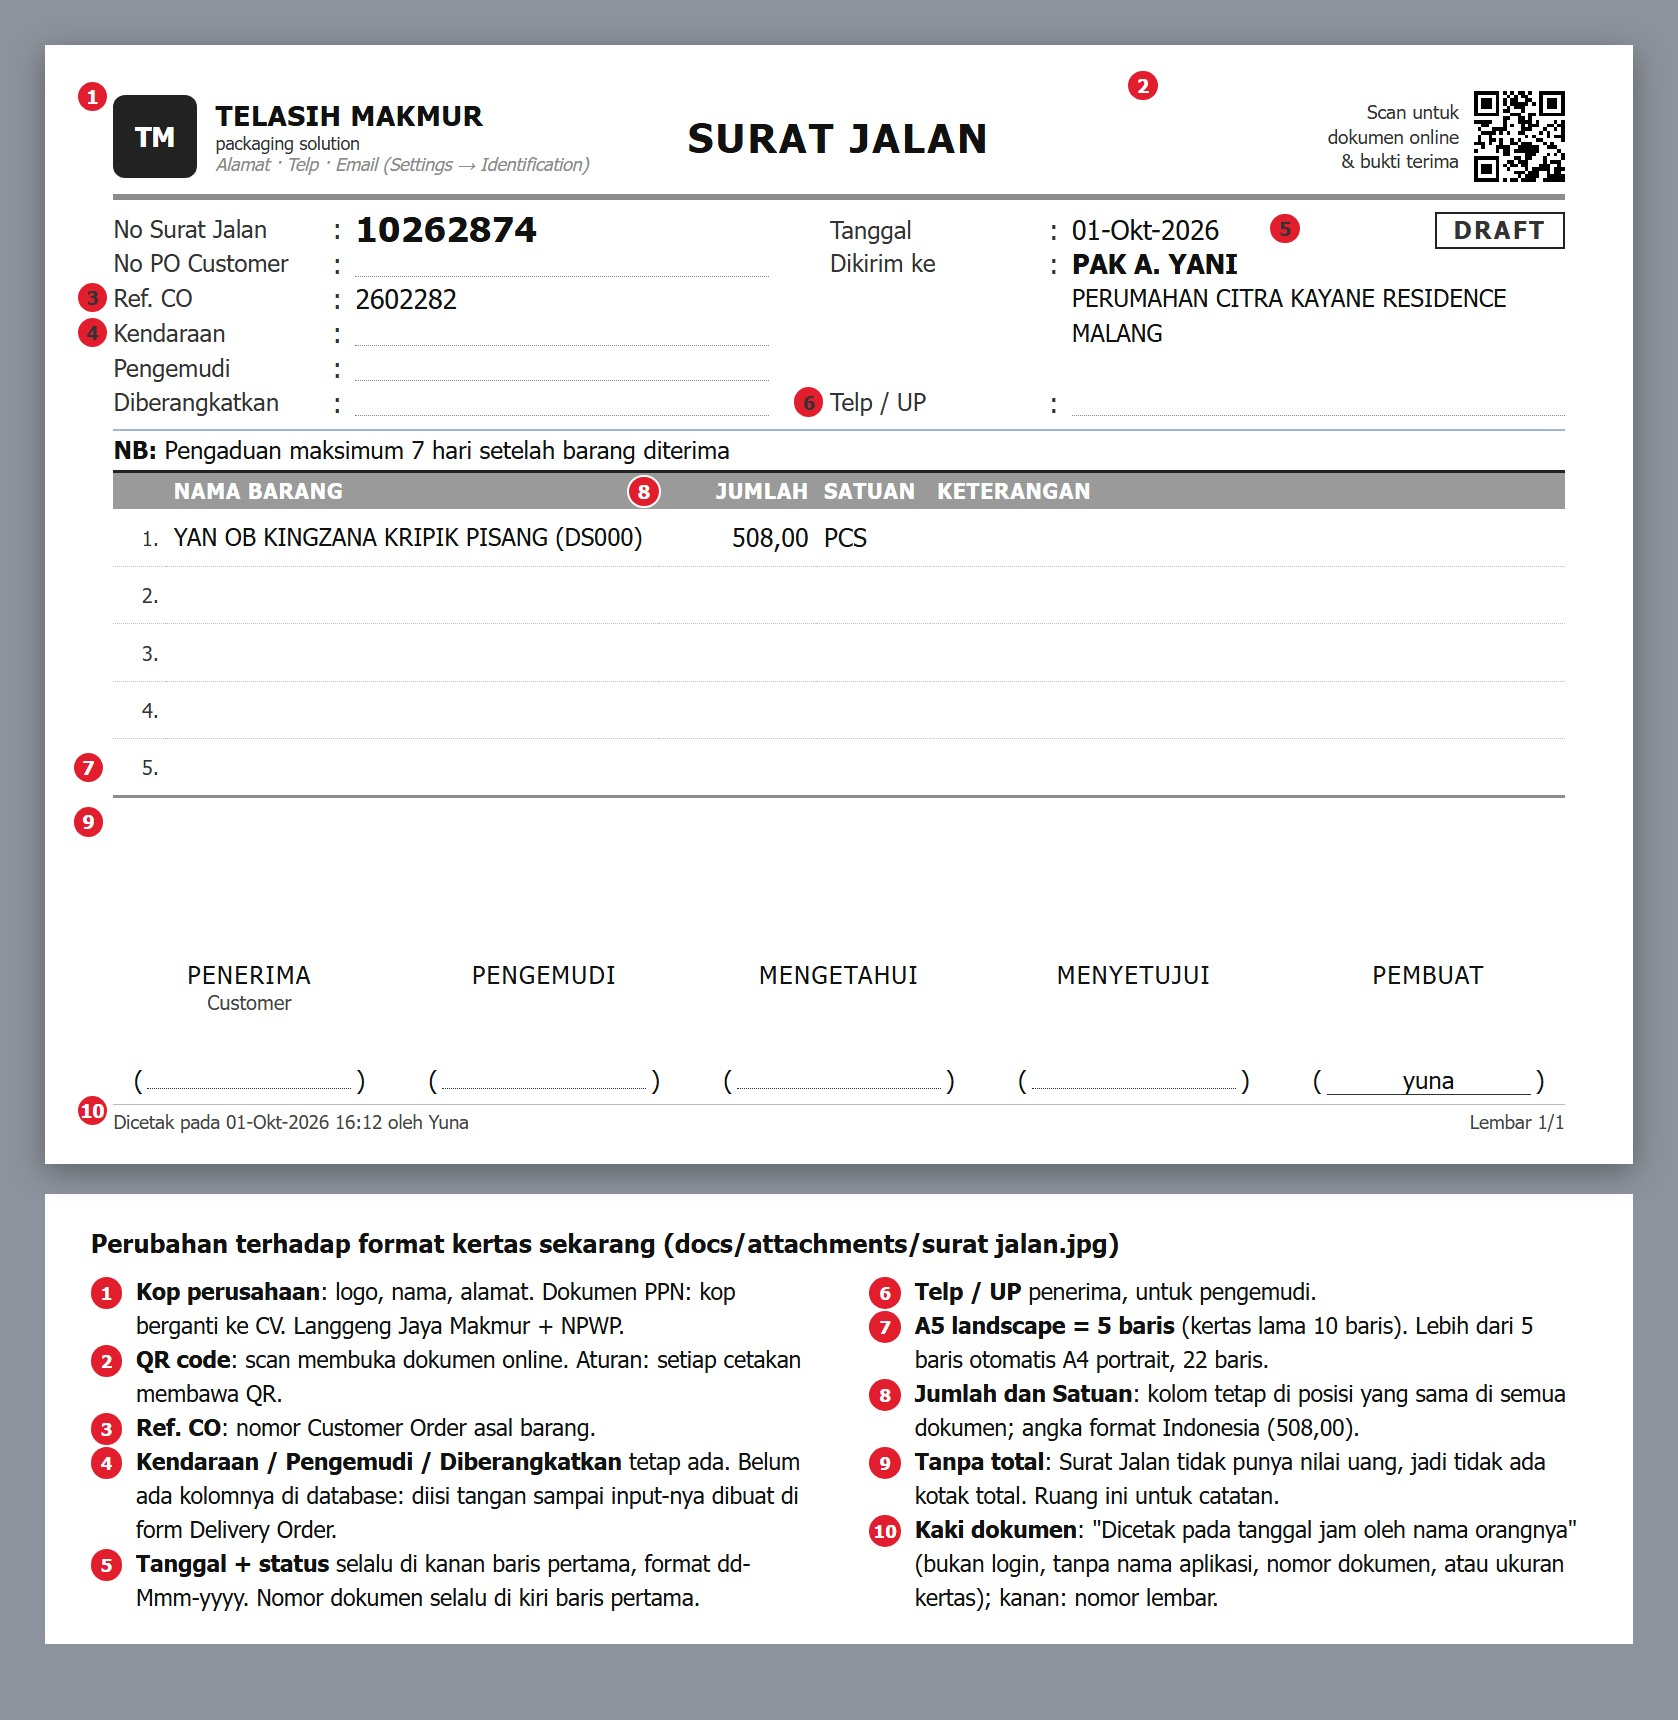
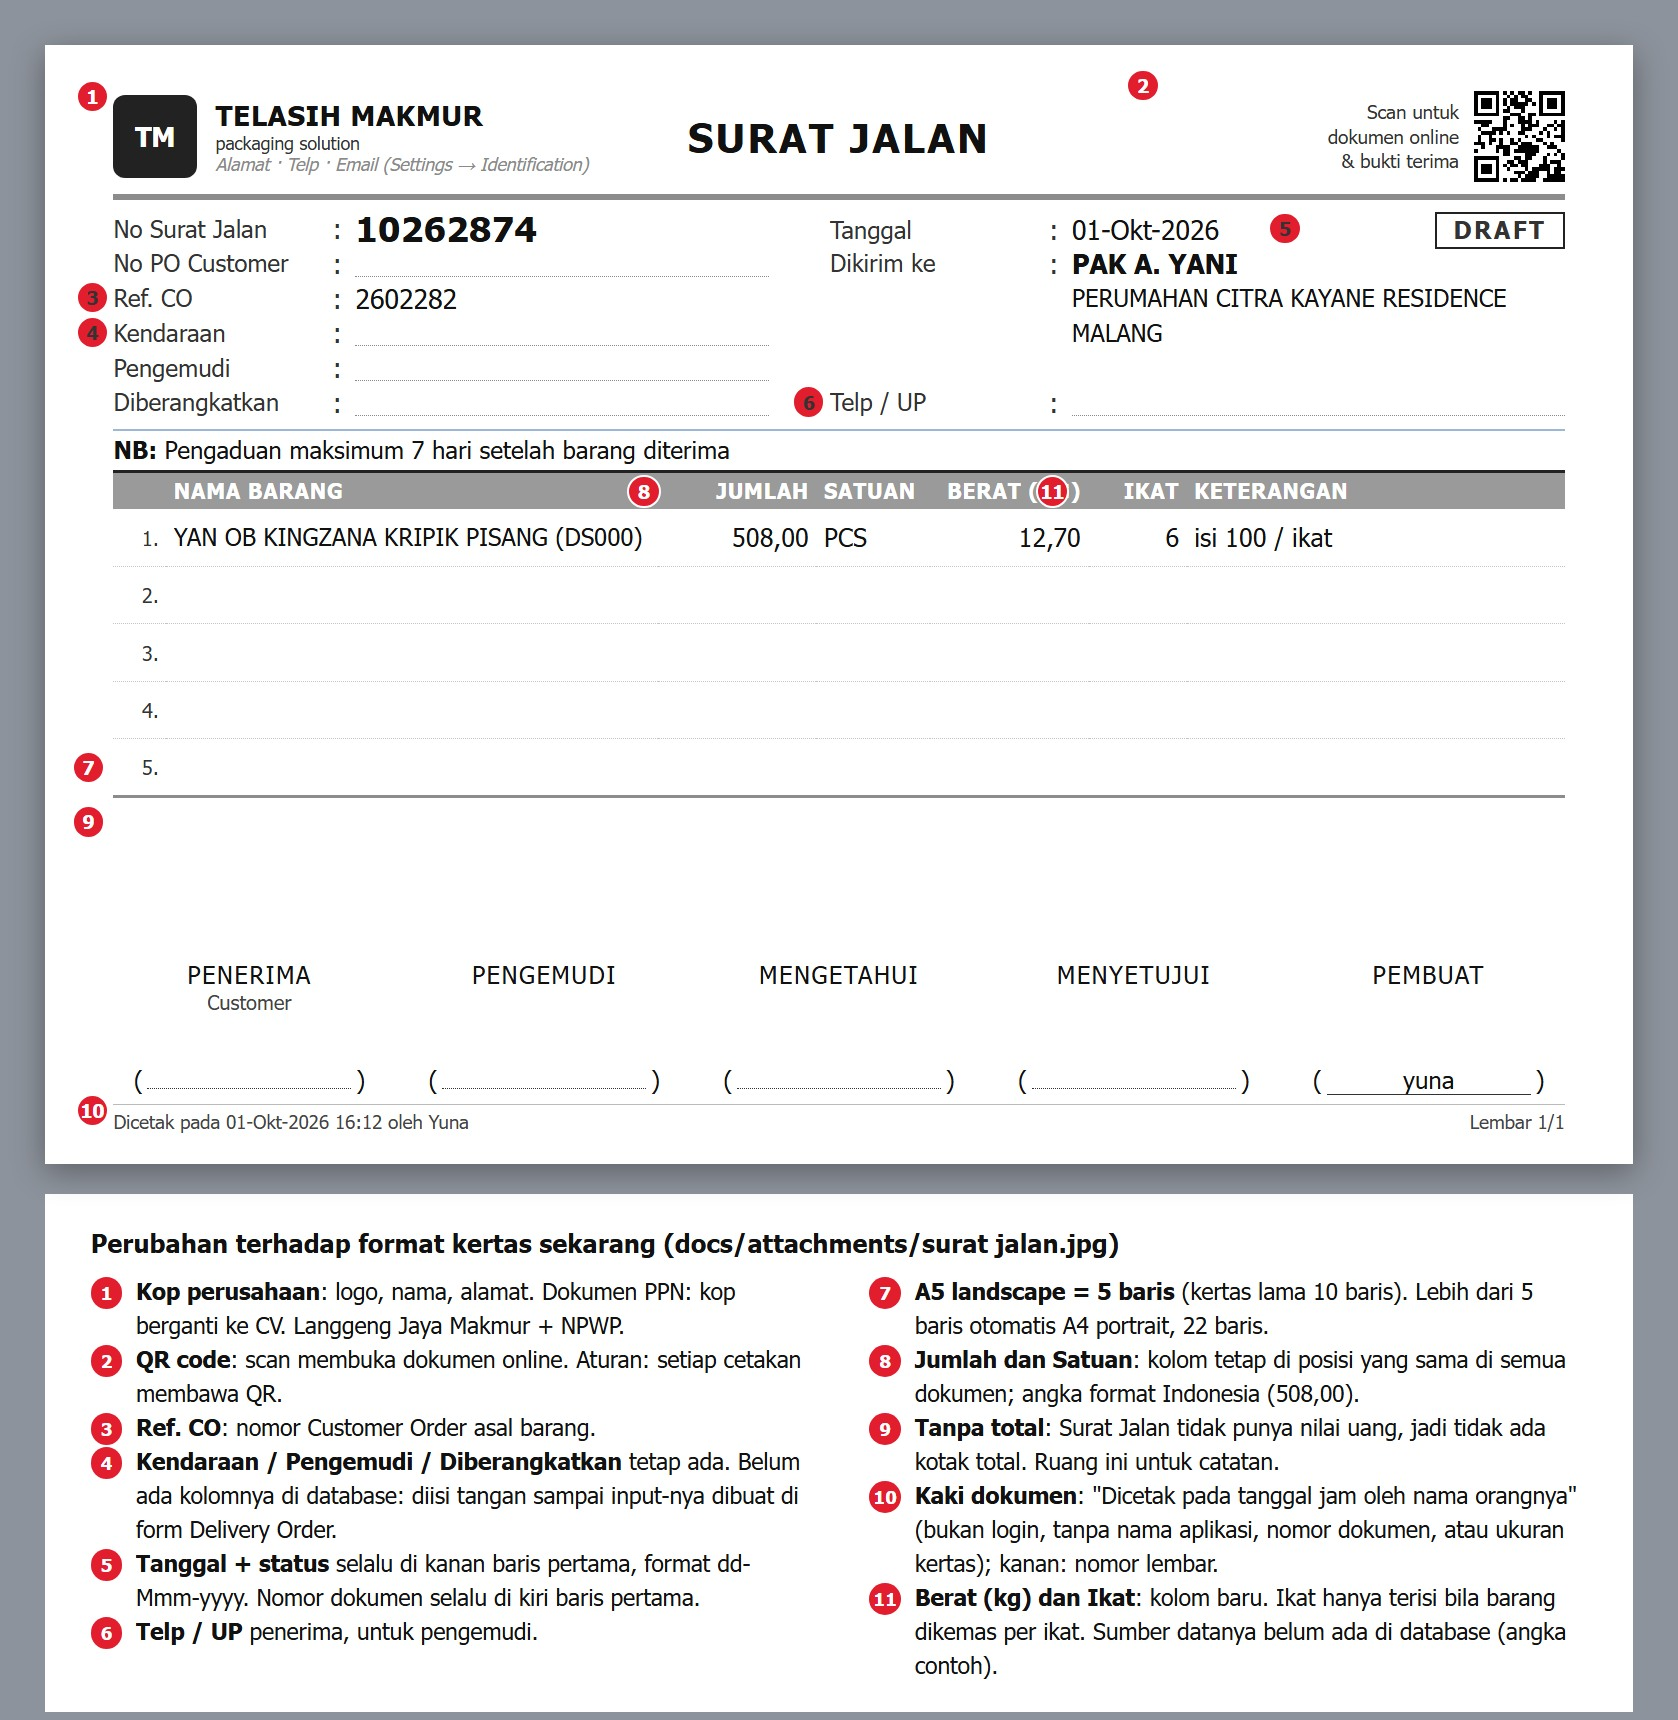
Print mockups: Surat Jalan gets Berat (kg) and Ikat columns
User request 2026-10-01: weight in kg, and bundle count when the goods are packed in bundles (blank otherwise).
Sample figures only; no weight / bundle source in the database yet.

Changed region(s): [[0.0, 0.7395, 0.9917, 1.0], [0.6818, 0.2773, 0.8057, 0.339], [0.5578, 0.2773, 0.6508, 0.339]]

diff --git a/docs/mockups/print_doc/samples.js b/docs/mockups/print_doc/samples.js
@@ -5,16 +5,19 @@ const SAMPLES = {
     SuratJalan: {
         data: {...PRINTED, number: '10262874', date: '2026-10-01', status: 'DRAFT', co_no: '2602282', createdBy: 'yuna',
             party: {name: 'PAK A. YANI', lines: ['PERUMAHAN CITRA KAYANE RESIDENCE', 'MALANG']},
-            rows: [{name: 'YAN OB KINGZANA KRIPIK PISANG (DS000)', qty: 508, unit: 'PCS'}]},
+            rows: [{name: 'YAN OB KINGZANA KRIPIK PISANG (DS000)', qty: 508, unit: 'PCS', weight_kg: 12.7, bundles: 6, remark: 'isi 100 / ikat'}]},
         more: [
-            {name: 'SJJ IB ROSSI FS GTZ-5S MF (12V5AH) DS001708', qty: 3000, unit: 'PCS'}, {name: 'SJJ IB ND NIPPONDENSO FS GTZ-5S MF (12V5AH) DS001639', qty: 1000, unit: 'PCS'},
-            {name: 'SJS IB BDM YTUBE 2.50/2.75-14 (DS003437)', qty: 30000, unit: 'PCS'}, {name: 'SJS IB BDM YTUBE 2.50/2.75-17 (DS003438)', qty: 30000, unit: 'PCS'},
-            {name: 'JD BOX DONAT UK 20 X 20 X 6 CM (DS000)', qty: 3000, unit: 'PCS'}, {name: 'IB COCO TOKYO FLAT C-25 1KG (DS001477)', qty: 4000, unit: 'PCS'},
-            {name: 'OB COCO TOKYO FLAT C-25 1KG', qty: 400, unit: 'PCS'}],
+            {name: 'SJJ IB ROSSI FS GTZ-5S MF (12V5AH) DS001708', qty: 3000, unit: 'PCS', weight_kg: 54, bundles: 30, remark: 'isi 100 / ikat'},
+            {name: 'SJJ IB ND NIPPONDENSO FS GTZ-5S MF (12V5AH) DS001639', qty: 1000, unit: 'PCS', weight_kg: 18, bundles: 10, remark: 'isi 100 / ikat'},
+            {name: 'SJS IB BDM YTUBE 2.50/2.75-14 (DS003437)', qty: 30000, unit: 'PCS', weight_kg: 96, remark: '12 dus'},
+            {name: 'SJS IB BDM YTUBE 2.50/2.75-17 (DS003438)', qty: 30000, unit: 'PCS', weight_kg: 99, remark: '12 dus'},
+            {name: 'JD BOX DONAT UK 20 X 20 X 6 CM (DS000)', qty: 3000, unit: 'PCS', weight_kg: 81, bundles: 60, remark: 'isi 50 / ikat'},
+            {name: 'IB COCO TOKYO FLAT C-25 1KG (DS001477)', qty: 4000, unit: 'PCS', weight_kg: 72.5, bundles: 40, remark: 'isi 100 / ikat'},
+            {name: 'OB COCO TOKYO FLAT C-25 1KG', qty: 400, unit: 'PCS', weight_kg: 38.4, remark: '4 pallet'}],
         dev: {
             title: 'Perubahan terhadap format kertas sekarang (docs/attachments/surat jalan.jpg)',
             marks: [[1, '.co', -5, -2], [2, '.kopr', 14, -3], [3, '[data-k=co_no]', -5, 0], [4, '[data-k=vehicle]', -5, 0], [5, '[data-k=date]', 58, 0],
-                [6, '[data-k=contact]', -5, 0], [7, 'tbody tr:nth-child(5) td', -5.5, 1.5], [8, 'thead th:nth-child(3)', -4, .3], [9, '.tail', -5.5, 1], [10, '.foot', -5, -1.5]],
+                [6, '[data-k=contact]', -5, 0], [7, 'tbody tr:nth-child(5) td', -5.5, 1.5], [8, 'thead th:nth-child(3)', -4, .3], [9, '.tail', -5.5, 1], [10, '.foot', -5, -1.5], [11, 'thead th:nth-child(5)', 14, .3]],
             legend: [
                 '<b>Kop perusahaan</b>: logo, nama, alamat. Dokumen PPN: kop berganti ke CV. Langgeng Jaya Makmur + NPWP.',
                 '<b>QR code</b>: scan membuka dokumen online. Aturan: setiap cetakan membawa QR.',
@@ -26,6 +29,7 @@ const SAMPLES = {
                 '<b>Jumlah dan Satuan</b>: kolom tetap di posisi yang sama di semua dokumen; angka format Indonesia (508,00).',
                 '<b>Tanpa total</b>: Surat Jalan tidak punya nilai uang, jadi tidak ada kotak total. Ruang ini untuk catatan.',
                 '<b>Kaki dokumen</b>: "Dicetak pada tanggal jam oleh nama orangnya" (bukan login, tanpa nama aplikasi, nomor dokumen, atau ukuran kertas); kanan: nomor lembar.',
+                '<b>Berat (kg) dan Ikat</b>: kolom baru. Ikat hanya terisi bila barang dikemas per ikat. Sumber datanya belum ada di database (angka contoh).',
             ],
         },
     },

diff --git a/docs/mockups/print_doc/printdoc.js b/docs/mockups/print_doc/printdoc.js
@@ -46,7 +46,7 @@ class PrintDoc {
     static side = null;                 // 1 slot kanan (baris 6)
     static nb = '';
     static nameLabel = 'NAMA BARANG';
-    static extra = [];                  // kolom zona varian: {key, label, width(mm), type: text|date|money, hand?}
+    static extra = [];                  // kolom zona varian: {key, label, width(mm), type: text|date|money|int, hand?}
     static priced = false;              // true = kolom harga + kotak total rupiah + terbilang
     static receivers = [];              // tanda tangan slot 1-2: [peran, keterangan]
     static internal = ['', '', ''];     // keterangan di bawah Mengetahui, Menyetujui, Pembuat
@@ -68,7 +68,7 @@ class PrintDoc {
     val(def, src = this.d) {
         const v = src[def.key];
         if (v == null || v === '') return def.hand ? '<span class="hand"></span>' : '&mdash;';
-        return def.type === 'date' ? Fmt.date(v) : def.type === 'money' ? Fmt.num(v) : esc(v);
+        return def.type === 'date' ? Fmt.date(v) : def.type === 'money' ? Fmt.num(v) : def.type === 'int' ? Fmt.num(v, 0) : esc(v);
     }
 
     row(def) { return def && def.label ? `<div class="f" data-k="${def.key}"><span>${esc(def.label)}</span><i>:</i><b>${this.val(def)}</b></div>` : '<div class="f"></div>'; }
@@ -99,7 +99,7 @@ class PrintDoc {
     }
 
     table() {
-        const x = this.cols, n = PrintDoc.ROWS[this.paper], cls = c => c.type === 'money' ? 'num' : c.hand ? 'hd' : c.wrap ? 'wr' : '';
+        const x = this.cols, n = PrintDoc.ROWS[this.paper], cls = c => c.type === 'money' || c.type === 'int' ? 'num' : c.hand ? 'hd' : c.wrap ? 'wr' : '';
         const head = `<th></th><th>${this.f.nameLabel}</th><th class="num">JUMLAH</th><th>SATUAN</th>` + x.map(c => `<th class="${cls(c)}">${c.label}</th>`).join('');
         const cell = (c, r) => `<td class="${cls(c)}">${r[c.key] == null || r[c.key] === '' ? '' : this.val(c, r)}</td>`;
         const body = Array.from({length: n}, (_, i) => {

diff --git a/docs/mockups/print_doc/documents.js b/docs/mockups/print_doc/documents.js
@@ -16,7 +16,8 @@ PrintDoc.register(class SuratJalan extends PrintDoc {
     static partyLabel = 'Dikirim ke';
     static side = {key: 'contact', label: 'Telp / UP', hand: true};
     static nb = '<b>NB:</b>&nbsp;Pengaduan maksimum 7 hari setelah barang diterima';
-    static extra = [{key: 'remark', label: 'KETERANGAN', width: 84}];
+    // IKAT hanya terisi bila barang dikemas per ikat; kosong untuk kemasan lain (keputusan user 2026-10-01).
+    static extra = [{key: 'weight_kg', label: 'BERAT (KG)', width: 21, type: 'money'}, {key: 'bundles', label: 'IKAT', width: 13, type: 'int'}, {key: 'remark', label: 'KETERANGAN', width: 50}];
     static receivers = [['Penerima', 'Customer'], ['Pengemudi', '']];
 });
 

diff --git a/docs/globaluserrules.md b/docs/globaluserrules.md
@@ -168,6 +168,8 @@
     Koreksi user 2026-10-01: kotak total **tanpa "Jumlah baris"**; kaki dokumen cukup **"Dicetak pada 01-Okt-2026 16:12 oleh
     Yuna"** (nama orang, bukan login) — tanpa nama aplikasi, nomor dokumen, dan tulisan ukuran kertas. **Dokumen tanpa
     nilai uang (Surat Jalan, dst) tidak mencetak total**; kotak total hanya untuk dokumen berharga (CO, PO, PR).
+    **Surat Jalan punya kolom Berat (kg) dan Ikat**; Ikat hanya terisi bila barang dikemas per ikat (sumber data belum ada
+    di database — perlu input sebelum dipasang ke aplikasi).
 25. **Form ProDev berlatar putih — user 2026-10-01:** workbench Imposition (dulu gelap/navy) memakai **latar putih** seperti
     layar lain, warnanya lewat token tema DevLib (bukan hex). Tata letak dan isi tidak berubah; area gambar berlatar abu muda
     supaya lembar cetak (putih) tetap terlihat. Pratinjau & cetak Master Card tidak berubah.
